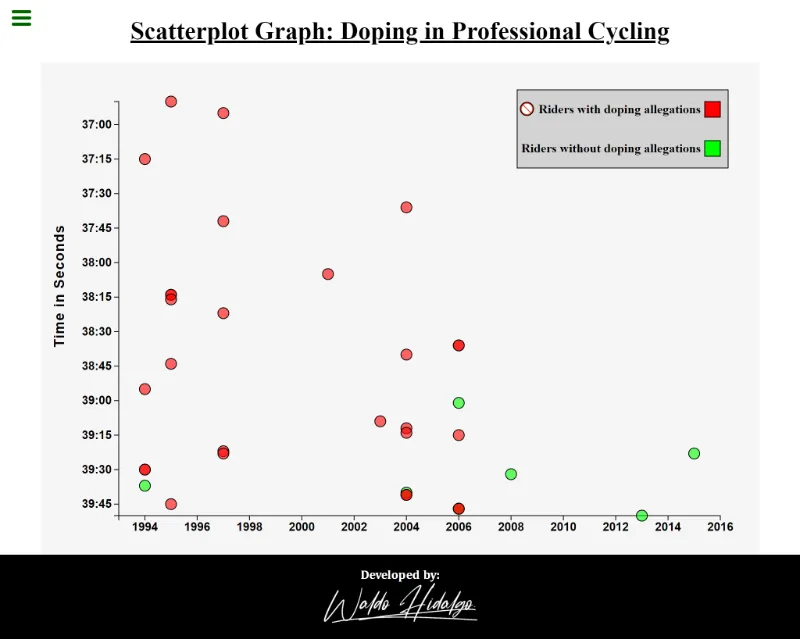
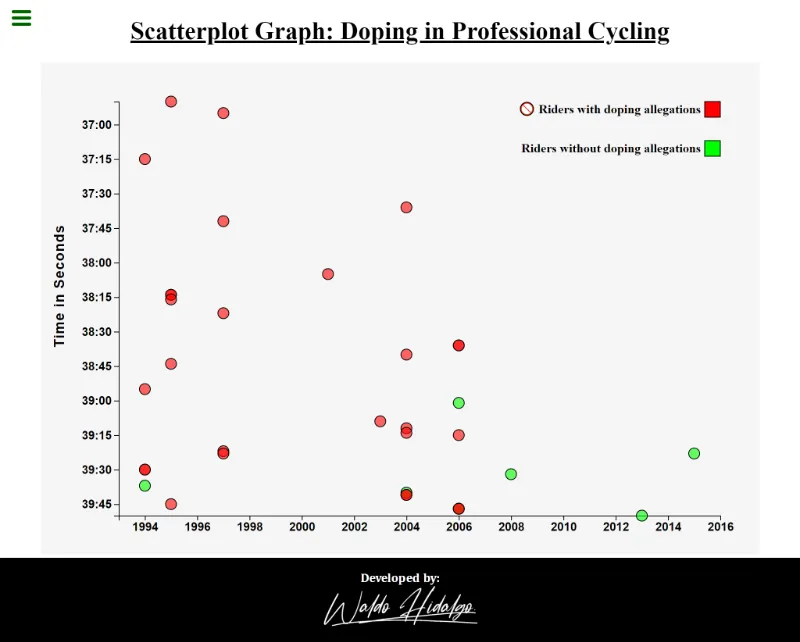
change images

diff --git a/assets/js/script.js b/assets/js/script.js
@@ -66,14 +66,6 @@ document.addEventListener("DOMContentLoaded", async function () {
       `translate(${width - margin.right - 20}, ${margin.top})`
     );
 
-  legend
-    .append("rect")
-    .attr("width", "270")
-    .attr("height", "100")
-    .attr("fill", "#D3D3D3")
-    .attr("transform", `translate(-243, -15)`)
-    .attr("stroke", "#000");
-
   const firstItemLegend = legend.append("g");
   const secondItemLegend = legend.append("g");
   secondItemLegend.attr("transform", `translate(0, 50)`);
